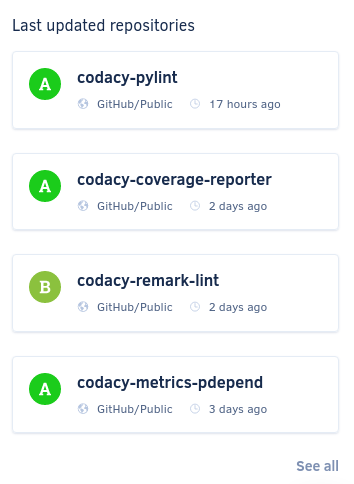
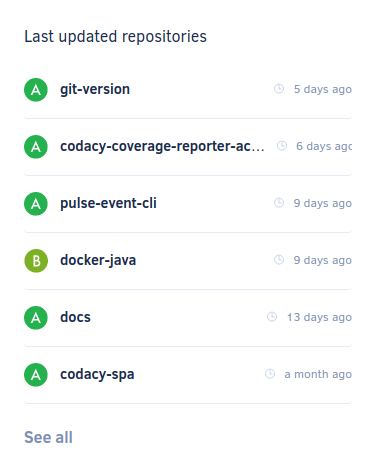
feat: Add Organization Overview repository filter CY-5623 CY-5651 (#1048)
* wip: Add TODO comments for updating the screenshots

* feature: Mention repository filter and provide use case examples

* feature: Update Organization Overview screenshots

* clean: Use feature flag to control visibility of repository filter

* clean: Use new MkDocs variable config.extra.self_hosted

* feature: Mention Organization Overview language filter CY-5651 (#1069)

* feature: Suggest using language filter to narrow down repositories

* clean: Rename screenshot file

* clean: Adjust admonition text

* clean: Simplify tip mentioning the languages filter

* clean: Improve examples for filtering repositories

* clean: Remove "feature flag" hiding filter on Self-hosted

* clean: Reorder information in introduction

* clean: Remove "beta" from screenshot file name

* feat: Update language filter screenshot

This is to take into account the changes from https://codacy.atlassian.net/browse/CY-6414

* feat: Update language filter screenshot, now for real

The previous update didn't include the full set of new changes.

diff --git a/docs/organizations/organization-overview.md b/docs/organizations/organization-overview.md
@@ -21,6 +21,13 @@ To access your Organization Overview, select an organization from the top naviga
 
 ![Organization Overview](images/organization-overview.png)
 
+Use the drop-down list at the top of the page to filter the information displayed on all dashboard areas based on the repositories that you select. For example, you can use the filter to monitor the quality of the repositories maintained by specific teams or that include certain programming languages, or to ignore legacy repositories that are no longer maintained.
+
+!!! tip
+    Use the language filter to help you narrow down the list of repositories in the drop-down list:
+
+    ![Using the language filter to narrow down the list of repositories](images/organization-overview-filter-language.png)
+
 On the Organization Overview you have the following areas to help you monitor your repositories:
 
 -   [Overall quality chart](#overall-quality-chart)
@@ -66,7 +73,7 @@ Click a pull request to see the [details of that pull request](../repositories/p
 
 ## Last updated repositories
 
-The **Last updated repositories** list displays the last updated repositories, sorted by reverse date of the last update. Each card displays the date of the last update and the current grade of the repository.
+The **Last updated repositories** list displays the last updated repositories, sorted by reverse date of the last update. Each item displays the date of the last update and the current grade of the repository.
 
 Click **See all** to see all repositories in your organization.
 
